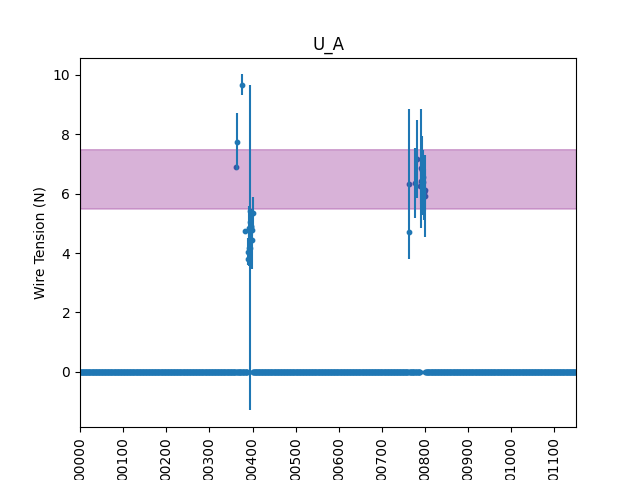
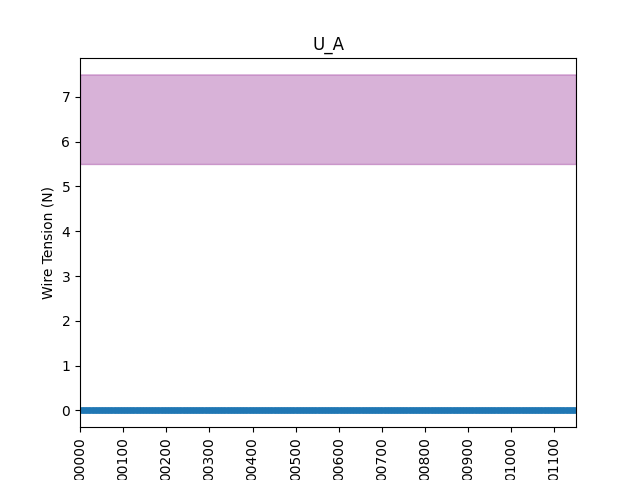
Optional error removal
Also added some files to gitignore

diff --git a/playground/dwa_plot.py b/playground/dwa_plot.py
@@ -47,7 +47,7 @@ def load_json(file_name):
 #################
 
 
-def data_scraper(data, init_dir):
+def data_scraper(data, init_dir, stdev):
 
     # Takes initial directory from user and (if path is correct, hard coded) will scrape all relevant data.
 
@@ -96,7 +96,11 @@ def data_scraper(data, init_dir):
                     else:
 
                         wire_tension.append(values[0]['tension'])
-                        wire_tenstd.append(values[0]['tension_confidence'])
+                        # remove errors if unwanted
+                        if (stdev == True):
+                            wire_tenstd.append(values[0]['tension_confidence'])
+                        else:
+                            wire_tenstd.append(0.0)
 
 
 
@@ -124,7 +128,7 @@ def data_scraper(data, init_dir):
 # plotter
 ##########
 
-def plot_wires(dictionary ,A_B):
+def plot_wires(dictionary ,A_B, stdev):
     # plots the given 'A_B' wire plane
     # now to plot this with a function
 
@@ -151,7 +155,7 @@ def plot_wires(dictionary ,A_B):
 
 
 ## main path
-def main(path, first_key = ""):
+def main(path, stdev = True, first_key = ""):
 
     # collect data
     data = load_json(str(path))
@@ -167,7 +171,7 @@ def main(path, first_key = ""):
 
     # Scrape data
     print("Probing: {}...".format(str(first_key)))
-    dicto = data_scraper(data, first_key)
+    dicto = data_scraper(data, first_key, stdev)
 
     # ensure correct directories exist before plotting
     i_path = str("plots/individual")
@@ -183,7 +187,7 @@ def main(path, first_key = ""):
     # plot data
     # print over each key
     for i in range(len(dicto.keys())):
-        plot_wires(dicto, list(dicto.keys())[i])
+        plot_wires(dicto, list(dicto.keys())[i], stdev)
 
         # save then close
         plt.savefig(i_path + "/" + str(list(dicto.keys())[i]))
@@ -204,7 +208,7 @@ def main(path, first_key = ""):
 
         plt.subplot(plot_square, plot_square ,index+1)
         # plot image
-        plot_wires(dicto, list(dicto.keys())[index])
+        plot_wires(dicto, list(dicto.keys())[index], stdev)
 
     plt.savefig("plots/" + "compiled plots.png")
     plt.show()
@@ -213,9 +217,10 @@ def main(path, first_key = ""):
 
 # ensuring correct number of arguments
 if len(sys.argv) == 3:
-    main(sys.argv[1], sys.argv[2])
+    main(sys.argv[1], sys.argv[2], first_key = "")
 # if only one argument, ask user for first_key argument after displaying keys
 elif len(sys.argv) == 2:
-    main(sys.argv[1], "")
+    main(sys.argv[1], stdev = True, first_key = "" )
 else:
     print("dwa_plot.py takes 1 or 2 arguments (" + str(len(sys.argv)-1) + ") given")
+    print("Please input:\n  - The path to your .json file\nOptional arguments:\n  - Boolean for error plotting")
